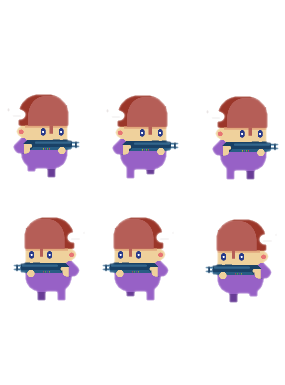
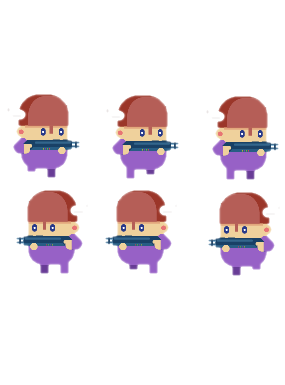
через пот и слёзы прыжок готов

Changed region(s): [[0.0281, 0.4675, 0.3088, 0.7792], [0.3649, 0.4675, 0.6175, 0.7792], [0.7018, 0.4987, 0.9825, 0.8104]]

diff --git a/src/Player.cpp b/src/Player.cpp
@@ -7,8 +7,8 @@
 
 
 Player::Player(std::string path,float x,float y) {
-this->width = 80;
-this->height = 80;
+this->width =83;
+this->height = 83;
 this->path = path;
 this->speed= 0;
 if(!this->image.loadFromFile(path)) std::cout << "error:not load image file" << path << std::endl;
@@ -49,14 +49,27 @@ else if(sf::Keyboard::isKeyPressed(sf::Keyboard::A)) {
     if(this->currentFrameTime > 3) currentFrameTime -= 3;
     sprite.setTextureRect(sf::IntRect(96 * int(currentFrameTime), 192, 96, 96));
     this->setView(posX,posY);
-}
+} 
 if(sf::Keyboard::isKeyPressed(sf::Keyboard::Space) && (playerOnGround)) {
-    this->state = JUMP; this->dy = -0.5f;
-    this->setView(posX,posY);
+    this->state = JUMP;
+    this->dy = -0.5f;
     this->playerOnGround = false;
 }
 
 
+
+}
+
+void Player::checkCollision() {
+    if((this->posY+height) > onGroundvalue)
+    {
+        this->posY = posY - 0.3;
+        this->dy = 0;
+        this->playerOnGround = true;
+    } else
+        {
+        this->playerOnGround = false;
+        }
 }
 
 
@@ -72,13 +85,13 @@ void Player::update(float time) {
     }
 
     posX += dx*time;
-    if((this->posY+height) >= onGroundvalue) {this->posY = onGroundvalue - height;this->dy = 0;this->playerOnGround = true;} else {this->playerOnGround = false;}
+    checkCollision();
     posY += dy*time;
-    if((this->posY+height) >= onGroundvalue) {this->posY = onGroundvalue - height; this->dy = 0;this->playerOnGround = true;} else {this->playerOnGround = false;}
+    checkCollision();
     this->speed = 0;
     this->sprite.setPosition(posX,posY);
     this->dy = dy + 0.0015*time;
-    if((this->posY+height) >= onGroundvalue) {this->posY = onGroundvalue - height; this->dy = 0;this->playerOnGround = true;} else {this->playerOnGround = false;}
+    checkCollision();
 
 }
 

diff --git a/src/GameState.cpp b/src/GameState.cpp
@@ -9,6 +9,7 @@ void GameState::initTextures()
 
     if(!this->groundTexture.loadFromFile("../res/images/ground.png")) {std::cout << "error load img for ground ..!!" << "\n"; }
     this->ground.setTexture(&this->groundTexture);
+    this->ground.setTextureRect(sf::IntRect(0,0,window->getSize().x,groundTexture.getSize().y));
     this->ground.setFillColor(sf::Color(255,255,255,150));
 
 }
@@ -60,9 +61,7 @@ void GameState::render(sf::RenderWindow * window)
     if (!window)
         window = this->window;
 
-    window->popGLStates();
     window->draw(this->backgroundShape);
-    window->pushGLStates();
     window->draw(this->ground);
     this->player->render(window);
 

diff --git a/src/Game.cpp b/src/Game.cpp
@@ -13,11 +13,6 @@ void Game::initWindow()
     this->window->setVerticalSyncEnabled(this->vertical_sync_enable);
     this->window->setFramerateLimit(this->FrameRateLimit);
 
-    glEnable(GL_TEXTURE_2D);
-    glDepthMask(GL_TRUE);
-    glMatrixMode(GL_PROJECTION);
-    glLoadIdentity();
-    gluPerspective(90.f,1.f,1.f,2000.f);
 }
 
 void Game::initStates()

diff --git a/src/Player.h b/src/Player.h
@@ -33,7 +33,7 @@ public:
 
     void setView(float x,float y);
     void movement(float time);
-
+    void checkCollision();
     void update(float time);
     void render(sf::RenderWindow * window);
 };
